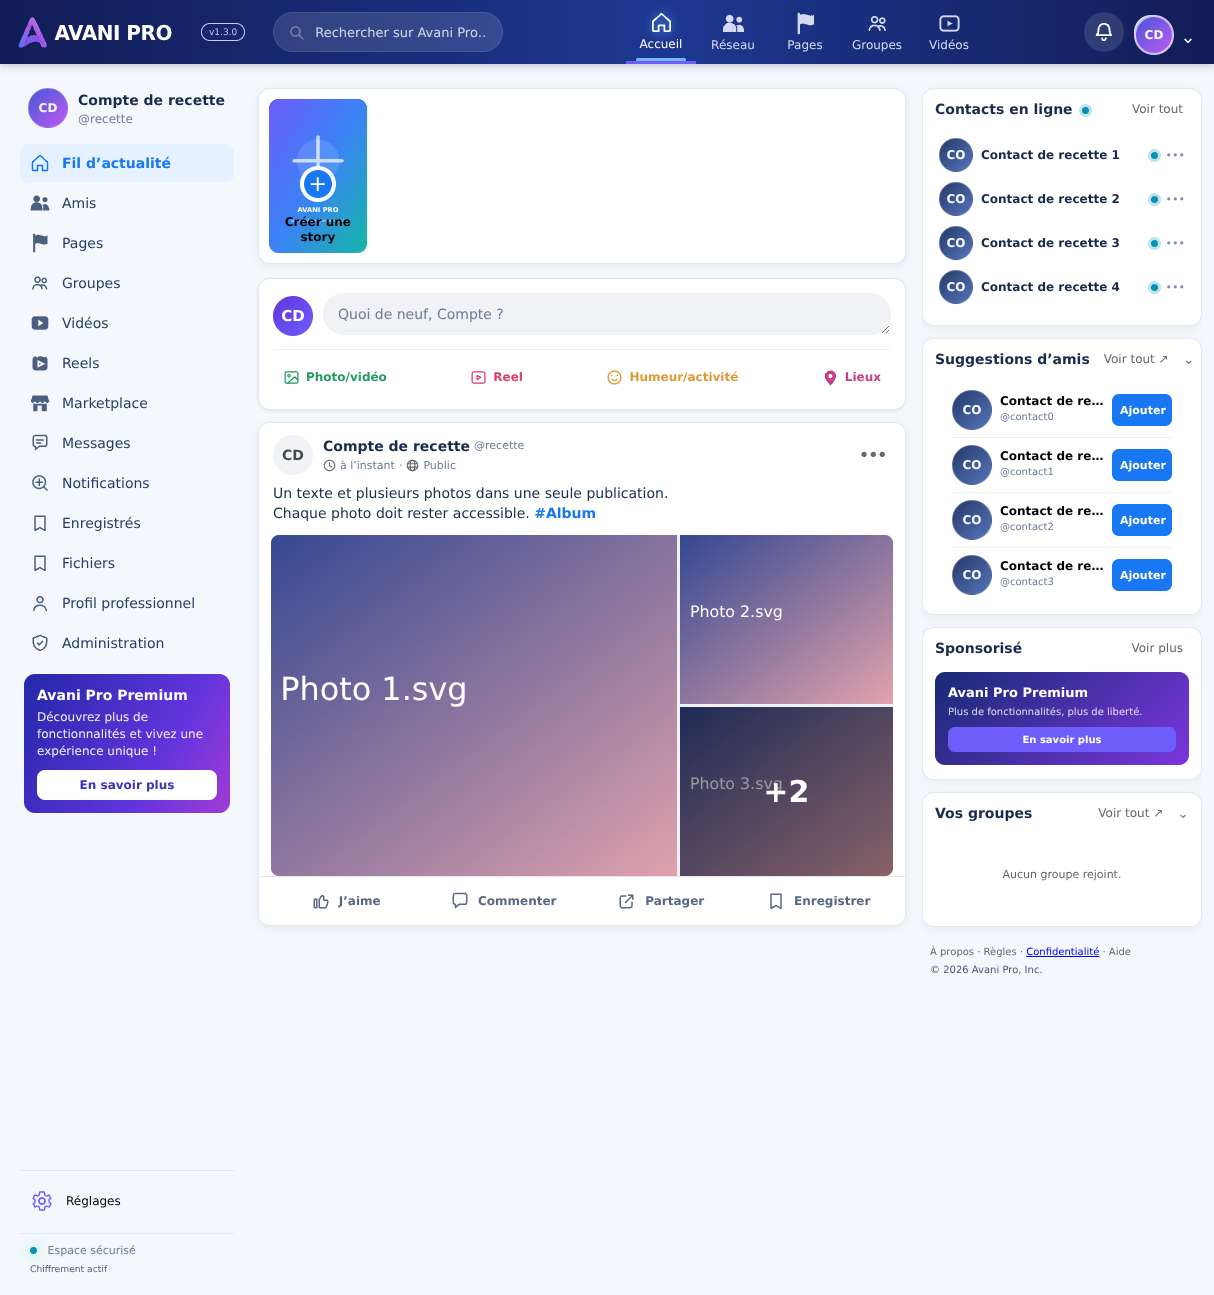
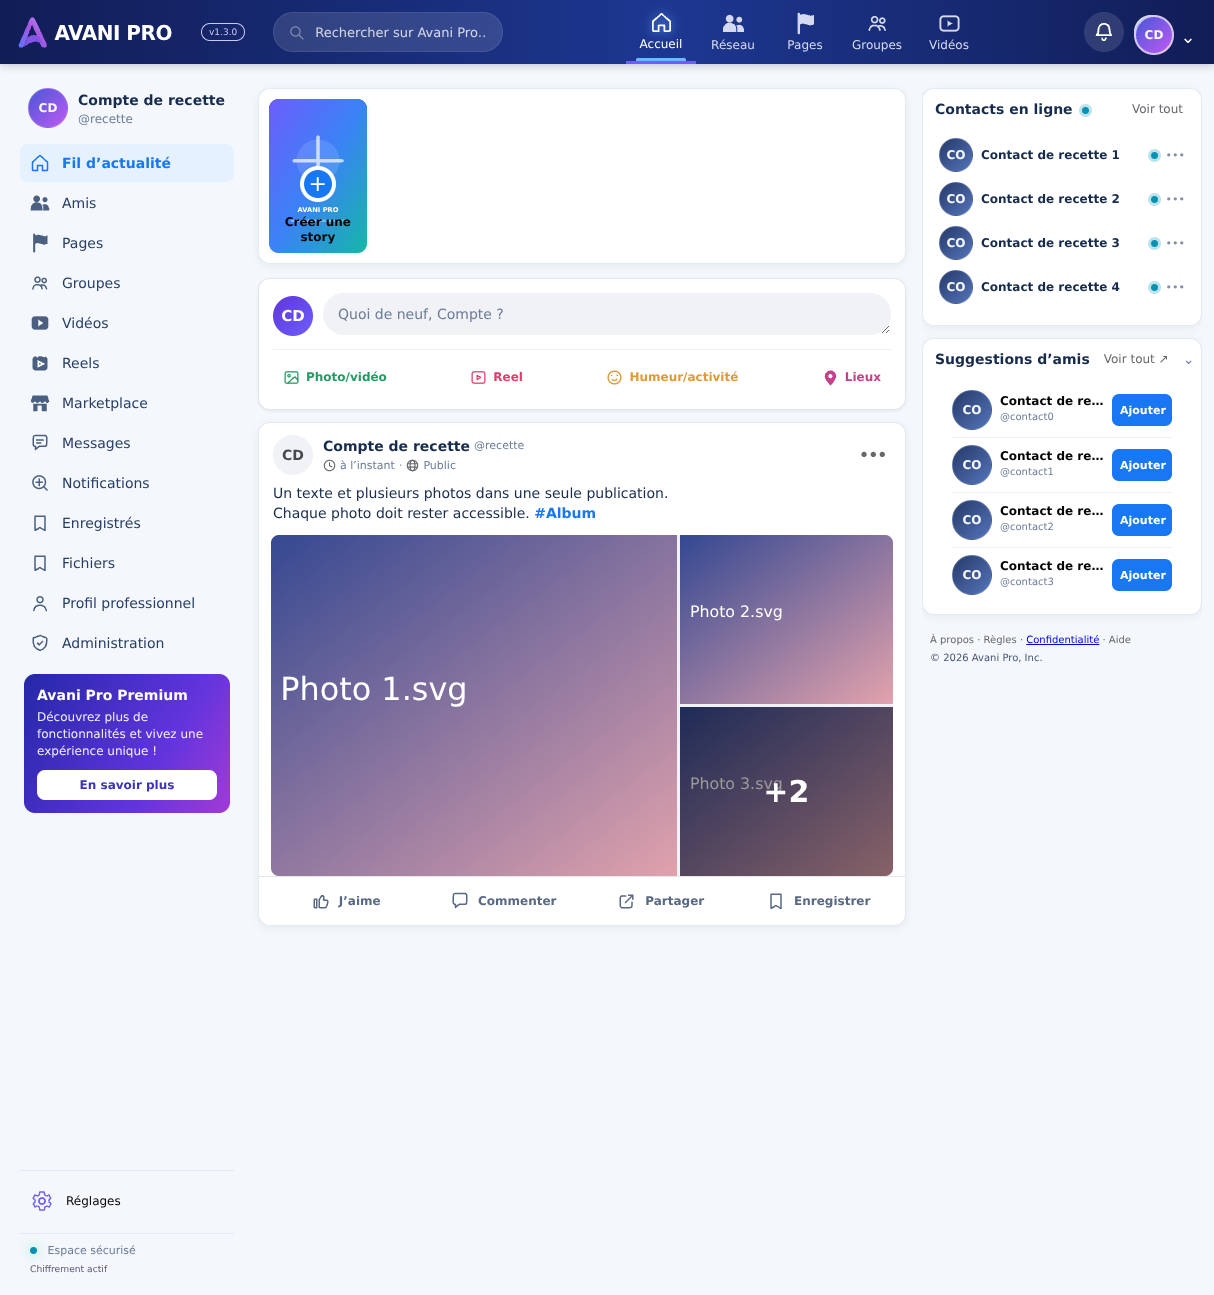
Remove repeated feed blocks and prevent duplicate photo selections and submissions

Changed region(s): [[0.7619, 0.4942, 1.0, 0.6486], [0.8534, 0.7104, 0.9143, 0.7413]]

diff --git a/src/App.tsx b/src/App.tsx
@@ -1,3 +1,4 @@
+import { uniqueById } from './lib/deduplicate'
 import { useAppPresence } from './lib/onlinePresence'
 import { version } from '../package.json'
 import './version.css'
@@ -282,7 +283,7 @@ function App() {
       const paths = Array.isArray(created.media_paths) && created.media_paths.length ? created.media_paths : uploaded
       const resolved = await resolvePostMediaPaths(paths)
       const nextPost = toFeedPost({ id: created.id, body: content, post_type: postType, created_at: created.created_at, author, media: paths.map(path => resolved.get(path) ?? path), likes: 0, comments: 0, shares: 0, liked: false, saved: false, reaction: null, reactionCounts: emptyReactionCounts() })
-      setPosts(current => [nextPost, ...current])
+      setPosts(current => uniqueById([nextPost, ...current]))
       setFeedFilter('all')
       setFeedQuery('')
       flash(uploaded.length ? `Publication en ligne avec ${uploaded.length} média${uploaded.length > 1 ? 's' : ''}.` : 'Votre publication est en ligne.')
@@ -314,8 +315,8 @@ function App() {
     } catch (error) { flash(error instanceof Error ? error.message : 'La publication n’a pas pu être supprimée.') }
   }
   useEffect(() => { if (!supabase) return; supabase.auth.getSession().then(({ data }) => { setSessionUser(data.session?.user ?? null); if (!data.session) setProfile(null) }); const { data: { subscription } } = supabase.auth.onAuthStateChange((_event, session) => { setSessionUser(session?.user ?? null); if (!session) setProfile(null) }); return () => subscription.unsubscribe() }, [])
-  useEffect(() => { if (!sessionUser) { setNetworkPeople([]); setNetworkGroups([]); setFollowed([]); return }; Promise.all([listDiscoverableProfiles(sessionUser.id), listMyGroups(sessionUser.id), listFollowingIds(sessionUser.id)]).then(([people, groups, followingIds]) => { setNetworkPeople(people); setNetworkGroups(groups); setFollowed(followingIds) }).catch(() => { setNetworkPeople([]); setNetworkGroups([]); setFollowed([]) }) }, [sessionUser])
-  useEffect(() => { if (!supabase) return; listFeedPosts(sessionUser?.id).then(feed => { if (supabase) setPosts(feed.map(post => toFeedPost(post))) }).catch(() => undefined) }, [sessionUser])
+  useEffect(() => { if (!sessionUser) { setNetworkPeople([]); setNetworkGroups([]); setFollowed([]); return }; Promise.all([listDiscoverableProfiles(sessionUser.id), listMyGroups(sessionUser.id), listFollowingIds(sessionUser.id)]).then(([people, groups, followingIds]) => { setNetworkPeople(uniqueById(people)); setNetworkGroups(uniqueById(groups)); setFollowed(followingIds) }).catch(() => { setNetworkPeople([]); setNetworkGroups([]); setFollowed([]) }) }, [sessionUser])
+  useEffect(() => { if (!supabase) return; listFeedPosts(sessionUser?.id).then(feed => { if (supabase) setPosts(uniqueById(feed.map(post => toFeedPost(post)))) }).catch(() => undefined) }, [sessionUser])
   useEffect(() => { if (!sessionUser || !supabase) return; getMyProfile(sessionUser).then(setProfile).catch(() => undefined) }, [sessionUser])
   const openAuth = () => { if (!isSupabaseConfigured) { flash('Ajoutez vos variables Supabase dans Render pour activer la connexion.'); return }; setAuthOpen(true) }
   const signOut = async () => { if (supabase) await supabase.auth.signOut(); setProfile(null); flash('Vous êtes déconnecté de votre espace sécurisé.') }
@@ -345,7 +346,6 @@ function App() {
             {open('stories') && <button className={active === 'stories' ? 'active' : ''} onClick={() => navigateTo('/stories', 'stories')} aria-label="Stories" title="Stories et archive"><svg className="svg-icon" viewBox="0 0 24 24" aria-hidden="true"><circle cx="12" cy="12" r="8.5" strokeDasharray="4 3" /><circle cx="12" cy="12" r="3.4" /></svg><span>Stories</span></button>}
             <button type="button" onClick={pickVideoForPost} aria-label="Publier une vidéo" title="Publier une vidéo"><svg className="svg-icon av-play" viewBox="0 0 24 24" aria-hidden="true"><path d="M12 5v14M5 12h14" /></svg></button></nav><div className="topbar-status"><span className="pulse-dot" />En ligne</div><div className="top-actions"><button type="button" className="nav-bell" aria-label="Notifications" title="Notifications" onClick={() => navigateTo('/notifications', 'notifications')}><svg className="svg-icon" viewBox="0 0 24 24" aria-hidden="true"><path d="M6 9a6 6 0 1 1 12 0c0 5 2 6.5 2 6.5H4S6 14 6 9z" /><path d="M10 19a2 2 0 0 0 4 0" /></svg><span className="nav-badge" aria-hidden="true" /></button><button className="profile-trigger" aria-label="Ouvrir mon profil" onClick={() => navigateTo('/settings', 'profile')}><span className="avatar avatar-sm avatar-gradient">{displayAvatarUrl ? <img src={displayAvatarUrl} alt="Photo de profil" /> : displayAvatar}</span><span className="profile-trigger-name">{displayName.split(' ')[0]}</span></button><button className="menu-trigger" aria-expanded={menuOpen} aria-label="Ouvrir le menu principal" onClick={() => setMenuOpen(value => !value)}>☰</button></div>{menuOpen && <div className="main-menu"><button onClick={() => { setMenuOpen(false); navigateTo('/settings/compte', 'settings') }}>Réglages</button><button onClick={() => { setMenuOpen(false); navigateTo('/marketplace', 'marketplace') }}>Marketplace</button><button onClick={() => { setMenuOpen(false); navigateTo('/live', 'live') }}>Live</button><button onClick={() => { setMenuOpen(false); navigateTo('/files', 'files') }}>Mes fichiers</button><button onClick={() => { setMenuOpen(false); navigateTo('/notifications', 'notifications') }}>Notifications</button><button className="menu-danger" onClick={() => { setMenuOpen(false); void signOut() }}>Se déconnecter</button></div>}</header>
       <aside className="sidebar sidebar-pro">
-        <div className="brand"><span className="brand-mark"><img src="/assets/avani-mark.svg" alt="" /></span><span>AVANI<span className="brand-pro">PRO</span></span></div>
         <div className="profile-mini"><div className="avatar avatar-xl avatar-gradient">{displayAvatarUrl ? <img src={displayAvatarUrl} alt="Photo de profil" /> : displayAvatar}</div><div><strong>{displayName}{profile?.verified_type && <VerifiedBadge type={profile.verified_type} />}</strong><span>{displayUsername}</span></div></div>
         <nav className="nav-stack nav-stack-pro" aria-label="Navigation Avani Pro">
           <span className="nav-section-label">VOTRE ESPACE PRO</span>
@@ -447,7 +447,7 @@ function App() {
         {active === 'settings' && <SettingsPanel user={sessionUser} onAction={flash} onFlagsChanged={loadFlags} />}
       </main>
 
-      <aside className="right-rail"><section className="rail-card online-contacts"><div className="card-heading"><span>Contacts en ligne <i className="online-dot" /></span><button type="button" onClick={() => setActive('messages')}>Voir tout</button></div><div className="contact-list">{networkPeople.slice(0,7).map(person => <button type="button" className="contact-row" key={person.id} onClick={() => setActive('messages')}><span className="avatar avatar-sm avatar-soft">{person.avatar_url ? <img src={person.avatar_url} alt="" /> : person.full_name.slice(0,2).toUpperCase()}</span><strong>{person.full_name}</strong><i className="online-dot" /><span>•••</span></button>)}</div></section><section className="rail-card sponsored-card"><div className="card-heading"><span>Sponsorisé</span><button type="button" onClick={() => flash('Découvrez Avani Pro Premium.')}>Voir plus</button></div><div className="sponsor-banner"><strong>Avani Pro Premium</strong><span>Plus de fonctionnalités, plus de liberté.</span><button type="button" onClick={() => flash('Avani Pro Premium sera bientôt disponible.')}>En savoir plus</button></div></section><details className="rail-card rail-detail network-card" open><summary className="card-heading"><span>Votre réseau</span><button type="button" onClick={event => { event.preventDefault(); setActive('explore') }}>Voir tout ↗</button></summary><div className="network-stat"><strong>{profile?.followers_count ?? 0}</strong><span>followers</span><div className="mini-avatars">{networkPeople.slice(0,3).map(person => <span key={person.id}>{person.full_name.slice(0,2).toUpperCase()}</span>)}<b>+{networkPeople.length}</b></div></div></details><details className="rail-card rail-detail" open><summary className="card-heading"><span>Suggestions d’amis</span><button type="button" onClick={event => { event.preventDefault(); setActive('explore') }}>Voir tout ↗</button></summary><div className="suggestion-list">{networkPeople.slice(0,4).map(person => <div className="suggestion" key={person.id}><div className="avatar avatar-md avatar-soft">{person.avatar_url ? <img src={person.avatar_url} alt="" /> : person.full_name.slice(0,2).toUpperCase()}</div><div className="suggestion-copy"><strong>{person.full_name}{person.verified_type && <VerifiedBadge type={person.verified_type} />}</strong><span>@{person.username}</span><small>{person.bio || ''}</small></div><button className={followed.includes(person.id) ? 'follow-button following' : 'follow-button'} onClick={async () => { if (!sessionUser) return; const isFollowing = followed.includes(person.id); try { const next = await toggleFollow(sessionUser.id, person.id, isFollowing); setFollowed(current => next ? [...current, person.id] : current.filter(id => id !== person.id)); flash(next ? 'Abonnement ajouté.' : 'Abonnement retiré.') } catch { flash('Impossible de modifier cet abonnement.') } }}>{followed.includes(person.id) ? 'Suivi' : 'Ajouter'}</button></div>)}</div></details><details className="rail-card rail-detail" open><summary className="card-heading"><span>Vos groupes</span><button type="button" onClick={event => { event.preventDefault(); navigateTo('/groups', 'groups') }}>Voir tout ↗</button></summary><div className="suggestion-list">{networkGroups.slice(0,3).map(group => <div className="suggestion" key={group.id}><div className="group-suggestion-icon group-violet">#</div><div className="suggestion-copy"><strong>{group.name}</strong><span>{group.visibility === 'public' ? 'Public' : 'Privé'}</span><small>Communauté Avani Pro</small></div></div>)}{networkGroups.length === 0 && <p className="empty-copy">Aucun groupe rejoint.</p>}</div></details><footer className="footer-links">À propos · Règles · <a href="/confidentialite/">Confidentialité</a> · Aide<br /><span>© 2026 Avani Pro, Inc.</span></footer></aside>
+      <aside className="right-rail"><section className="rail-card online-contacts"><div className="card-heading"><span>Contacts en ligne <i className="online-dot" /></span><button type="button" onClick={() => setActive('messages')}>Voir tout</button></div><div className="contact-list">{networkPeople.slice(0,7).map(person => <button type="button" className="contact-row" key={person.id} onClick={() => setActive('messages')}><span className="avatar avatar-sm avatar-soft">{person.avatar_url ? <img src={person.avatar_url} alt="" /> : person.full_name.slice(0,2).toUpperCase()}</span><strong>{person.full_name}</strong><i className="online-dot" /><span>•••</span></button>)}</div></section><details className="rail-card rail-detail friend-suggestions" open><summary className="card-heading"><span>Suggestions d’amis</span><button type="button" onClick={event => { event.preventDefault(); setActive('explore') }}>Voir tout ↗</button></summary><div className="suggestion-list">{networkPeople.filter(person => !followed.includes(person.id)).slice(0,4).map(person => <div className="suggestion" key={person.id}><div className="avatar avatar-md avatar-soft">{person.avatar_url ? <img src={person.avatar_url} alt="" /> : person.full_name.slice(0,2).toUpperCase()}</div><div className="suggestion-copy"><strong>{person.full_name}{person.verified_type && <VerifiedBadge type={person.verified_type} />}</strong><span>@{person.username}</span><small>{person.bio || ''}</small></div><button className={followed.includes(person.id) ? 'follow-button following' : 'follow-button'} onClick={async () => { if (!sessionUser) return; const isFollowing = followed.includes(person.id); try { const next = await toggleFollow(sessionUser.id, person.id, isFollowing); setFollowed(current => next ? [...current, person.id] : current.filter(id => id !== person.id)); flash(next ? 'Abonnement ajouté.' : 'Abonnement retiré.') } catch { flash('Impossible de modifier cet abonnement.') } }}>{followed.includes(person.id) ? 'Suivi' : 'Ajouter'}</button></div>)}</div></details><footer className="footer-links">À propos · Règles · <a href="/confidentialite/">Confidentialité</a> · Aide<br /><span>© 2026 Avani Pro, Inc.</span></footer></aside>
       {toast && <div className="toast"><span>✦</span>{toast}</div>}
       {authOpen && <AuthModal onClose={() => setAuthOpen(false)} onSuccess={flash} />}
     </div>

diff --git a/src/components/PostComposer.tsx b/src/components/PostComposer.tsx
@@ -1,3 +1,4 @@
+import { uniqueSelectedFiles } from '../lib/deduplicate'
 import { useEffect, useRef, useState } from 'react'
 import { MAX_POST_MEDIA_FILES, createComposerMedia, formatMediaSize, releaseComposerMedia, validateMediaSelection } from '../lib/postMedia'
 import type { ComposerMedia } from '../lib/postMedia'
@@ -39,6 +40,7 @@ export function PostComposer({ displayName, initials, avatarUrl, busy, progress,
   const [placeOpen, setPlaceOpen] = useState(false)
   const [place, setPlace] = useState('')
   const [acceptKind, setAcceptKind] = useState<'all' | 'video'>('all')
+  const submitInFlight = useRef(false)
   const fileInput = useRef<HTMLInputElement>(null)
   const formRef = useRef<HTMLFormElement>(null)
   const mediaRef = useRef<ComposerMedia[]>([])
@@ -74,7 +76,9 @@ export function PostComposer({ displayName, initials, avatarUrl, busy, progress,
     const selected = Array.from(event.target.files ?? [])
     event.target.value = ''
     if (!selected.length) return
-    const { accepted, rejected } = validateMediaSelection(selected, media.length, totalBytes)
+    const { files, skipped } = uniqueSelectedFiles(selected, media.map(item => item.file))
+    const { accepted, rejected } = validateMediaSelection(files, media.length, totalBytes)
+    if (skipped) rejected.unshift(`${skipped} fichier(s) déjà sélectionné(s), ignoré(s).`)
     if (rejected.length) onNotify(rejected.join(' '))
     if (accepted.length) setMedia(current => [...current, ...createComposerMedia(accepted)])
   }
@@ -94,16 +98,21 @@ export function PostComposer({ displayName, initials, avatarUrl, busy, progress,
 
   const submit = async (event: React.FormEvent) => {
     event.preventDefault()
-    if (busy) return
+    if (busy || submitInFlight.current) return
     if (!canPublish) {
       onNotify('Écris quelque chose ou ajoute une photo avant de publier.')
       return
     }
-    const published = await onPublish(body, media)
-    if (!published) return
-    releaseComposerMedia(media)
-    setMedia([])
-    setBody('')
+    submitInFlight.current = true
+    try {
+      const published = await onPublish(body, media)
+      if (!published) return
+      releaseComposerMedia(media)
+      setMedia([])
+      setBody('')
+    } finally {
+      submitInFlight.current = false
+    }
   }
 
   return (

diff --git a/scripts/feed-check/entry.ts b/scripts/feed-check/entry.ts
@@ -1,3 +1,4 @@
+import { uniqueById, uniqueSelectedFiles } from '../../src/lib/deduplicate'
 import { albumPreview, albumIndex } from '../../src/lib/postAlbum'
 import { mentionAtCursor, insertMention } from '../../src/lib/mentions'
 /**
@@ -379,6 +380,19 @@ check('album complet jusqu a dix medias', MAX_POST_MEDIA_FILES === 10 && albumPr
 check('album simple et paire sans compteur superflu', albumPreview(1).visibleCount === 1 && albumPreview(2).overflow === 0)
 check('navigation album boucle aux extremites', albumIndex(4, 1, 5) === 0 && albumIndex(0, -1, 5) === 4)
 check('album vide ne produit pas index invalide', albumIndex(0, 1, 0) === 0 && albumPreview(0).visibleCount === 0)
+
+{
+  const rows = uniqueById([{ id: 'a', text: 'récent' }, { id: 'a', text: 'ancien' }, { id: 'b', text: 'récent' }])
+  check('doublons par id retires sans fusionner des contenus distincts', rows.length === 2 && rows[0].text === 'récent' && rows[1].id === 'b')
+  check('dedoublonnage stable sans modifier entree', uniqueById([{ id: 1 }, { id: '1' }]).length === 2)
+  const image = { name: 'photo.png', size: 20, type: 'image/png', lastModified: 42 } as File
+  check('meme photo deux fois dans le lot ignoree', uniqueSelectedFiles([image, image], []).skipped === 1)
+  check('meme photo ajoutee lors selection suivante ignoree', uniqueSelectedFiles([{ ...image } as File], [image]).files.length === 0)
+  check('fichiers differents de meme nom conserves', uniqueSelectedFiles([{ ...image, lastModified: 43 } as File], [image]).files.length === 1)
+  const appSource = readFileSync('src/App.tsx', 'utf8')
+  check('premium conserve une seule fois dans le fil', (appSource.match(/<strong>Avani Pro Premium<\/strong>/g) ?? []).length === 1)
+  check('pas de bloc repetant les groupes des raccourcis', !appSource.includes('<span>Vos groupes</span>'))
+}
 
 const failed = results.filter(result => !result.ok)
 console.log(`\n${results.length - failed.length}/${results.length} vérifications du fil réussies`)

diff --git a/src/feed-reference.css b/src/feed-reference.css
@@ -312,12 +312,9 @@
     background: #fff !important;
     box-shadow: 0 2px 8px rgba(23,43,77,.06) !important;
   }
-  .app-shell .right-rail > .network-card { display: none !important; }
   .app-shell .right-rail > .online-contacts { order: 0; }
-  .app-shell .right-rail > details:nth-of-type(2) { order: 1; }
-  .app-shell .right-rail > .sponsored-card { order: 2; }
-  .app-shell .right-rail > details:nth-of-type(3) { order: 3; }
-  .app-shell .right-rail > .footer-links { order: 4; }
+  .app-shell .right-rail > .friend-suggestions { order: 1; }
+  .app-shell .right-rail > .footer-links { order: 2; }
   .app-shell .card-heading { gap: 8px !important; margin-bottom: 8px !important; color: var(--ref-text) !important; }
   .app-shell .card-heading span { color: var(--ref-text) !important; font-size: 14px !important; font-weight: 700 !important; }
   .app-shell .card-heading button { color: var(--ref-blue) !important; font-size: 12px !important; }
@@ -337,8 +334,6 @@
   .app-shell .suggestion-copy span,
   .app-shell .suggestion-copy small { color: var(--ref-muted) !important; font-size: 10px !important; }
   .app-shell .suggestion button { flex: 0 0 60px !important; width: 60px !important; min-width: 60px !important; padding: 7px 8px !important; border: 0 !important; border-radius: 7px !important; background: var(--ref-blue) !important; color: #fff !important; font-size: 11px !important; }
-  .app-shell .sponsor-banner { margin: 0 0 2px !important; padding: 13px !important; border-radius: 10px !important; }
-  .app-shell .sponsor-banner button { justify-self: stretch !important; text-align: center !important; }
   .app-shell .group-suggestion-icon { flex: 0 0 38px; width: 38px; height: 38px; border-radius: 9px; }
   .app-shell .empty-copy { color: var(--ref-muted) !important; font-size: 12px !important; }
   .app-shell .footer-links { padding: 4px 8px 12px !important; color: var(--ref-muted) !important; font-size: 10px !important; line-height: 1.8 !important; }

diff --git a/src/lib/deduplicate.ts b/src/lib/deduplicate.ts
@@ -1,0 +1,22 @@
+/** Keep first occurrence and input order; never deduplicate different database IDs by text. */
+export function uniqueById<T extends { id: string | number }>(items: readonly T[]): T[] {
+  const seen = new Set<string | number>()
+  return items.filter(item => {
+    if (seen.has(item.id)) return false
+    seen.add(item.id)
+    return true
+  })
+}
+
+/** File-picker identity, not a content hash: different files with the same name remain allowed. */
+export function uniqueSelectedFiles(incoming: readonly File[], existing: readonly File[]) {
+  const key = (file: File) => JSON.stringify([file.name, file.size, file.type, file.lastModified])
+  const seen = new Set(existing.map(key))
+  const files = incoming.filter(file => {
+    const identity = key(file)
+    if (seen.has(identity)) return false
+    seen.add(identity)
+    return true
+  })
+  return { files, skipped: incoming.length - files.length }
+}

diff --git a/docs/verification/feed-reference.md b/docs/verification/feed-reference.md
@@ -33,7 +33,7 @@ Ces captures ne sont **pas des captures de la production**. Les noms « Compte d
 ## Tests exécutés
 
 - `npm run build` : TypeScript et Vite réussis.
-- `npm run test:feed` : **143/143** contrôles.
+- `npm run test:feed` : **150/150** contrôles.
 - `npm run lint` : zéro erreur, 32 avertissements préexistants à cette correction.
 - `git diff --check` : propre.
 - Patch Vite verrouillé en 8.3.5 : la vulnérabilité haute signalée par l’audit avant cette livraison n’est plus présente ; `npm audit` ne signale aucune vulnérabilité.
@@ -65,3 +65,15 @@ node scripts/browser-feed-check.mjs
 Le navigateur doit disposer des bibliothèques système NSS/NSPR. Dans le sandbox de recette, elles ont été extraites de l’archive `al2023.tar.br` incluse dans le package Chromium, avec `LD_LIBRARY_PATH` pointant sur son dossier `lib`.
 
 Le serveur de recette utilise une URL Supabase factice ; ne pas le déployer. Playwright intercepte les requêtes uniquement dans son propre navigateur. Arrêter ce serveur après les tests. Captures temporaires dans `.arena/feed-check`, dossier ignoré par Git.
+
+## Suite : nettoyage des doublons
+
+- Une seule promotion Premium, dans la colonne gauche ; suppression du bloc promotionnel répété à droite et du bloc réseau déjà masqué.
+- Les groupes rejoints restent dans les raccourcis ; suppression du second bloc affichant exactement ces mêmes groupes à droite.
+- Suppression du logo supplémentaire masqué dans la sidebar ; les accès distincts entre navigation ordinateur et mobile sont conservés.
+- Déduplication stable des profils, groupes et posts par identifiant, sans modifier les données stockées ni fusionner deux publications distinctes ayant le même texte.
+- Les suggestions excluent désormais les personnes déjà suivies.
+- Même fichier sélectionné à nouveau : ignoré avant les quotas et avant upload. L’identité est basée sur nom, taille, type et date de modification ; ce n’est pas une comparaison cryptographique des contenus.
+- Verrou immédiat de soumission en complément de l’état React : deux événements `submit` consécutifs ne déclenchent qu’un envoi.
+- Recette navigateur rejouée : deux sélections successives des cinq mêmes photos donnent toujours cinq aperçus et cinq uploads ; deux soumissions synchrones donnent une seule insertion. Un seul titre Premium est présent dans le DOM.
+- Aucun nettoyage destructif en base : aucune publication, photo, personne ou groupe supprimé.
